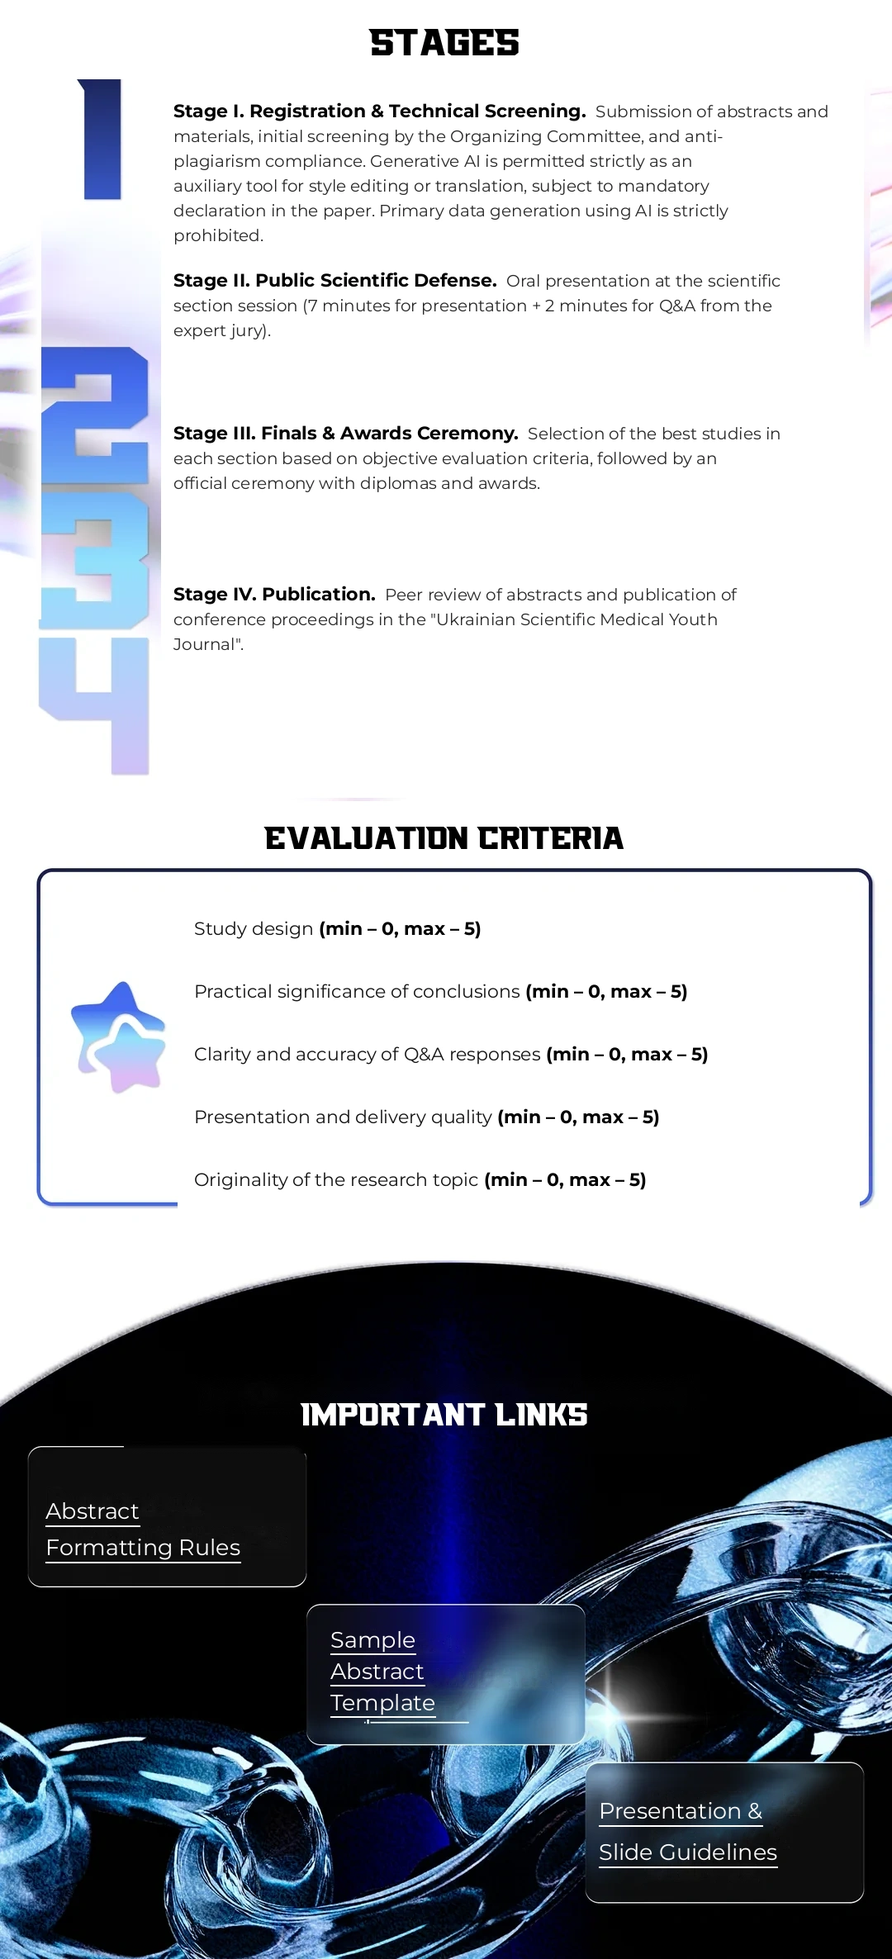
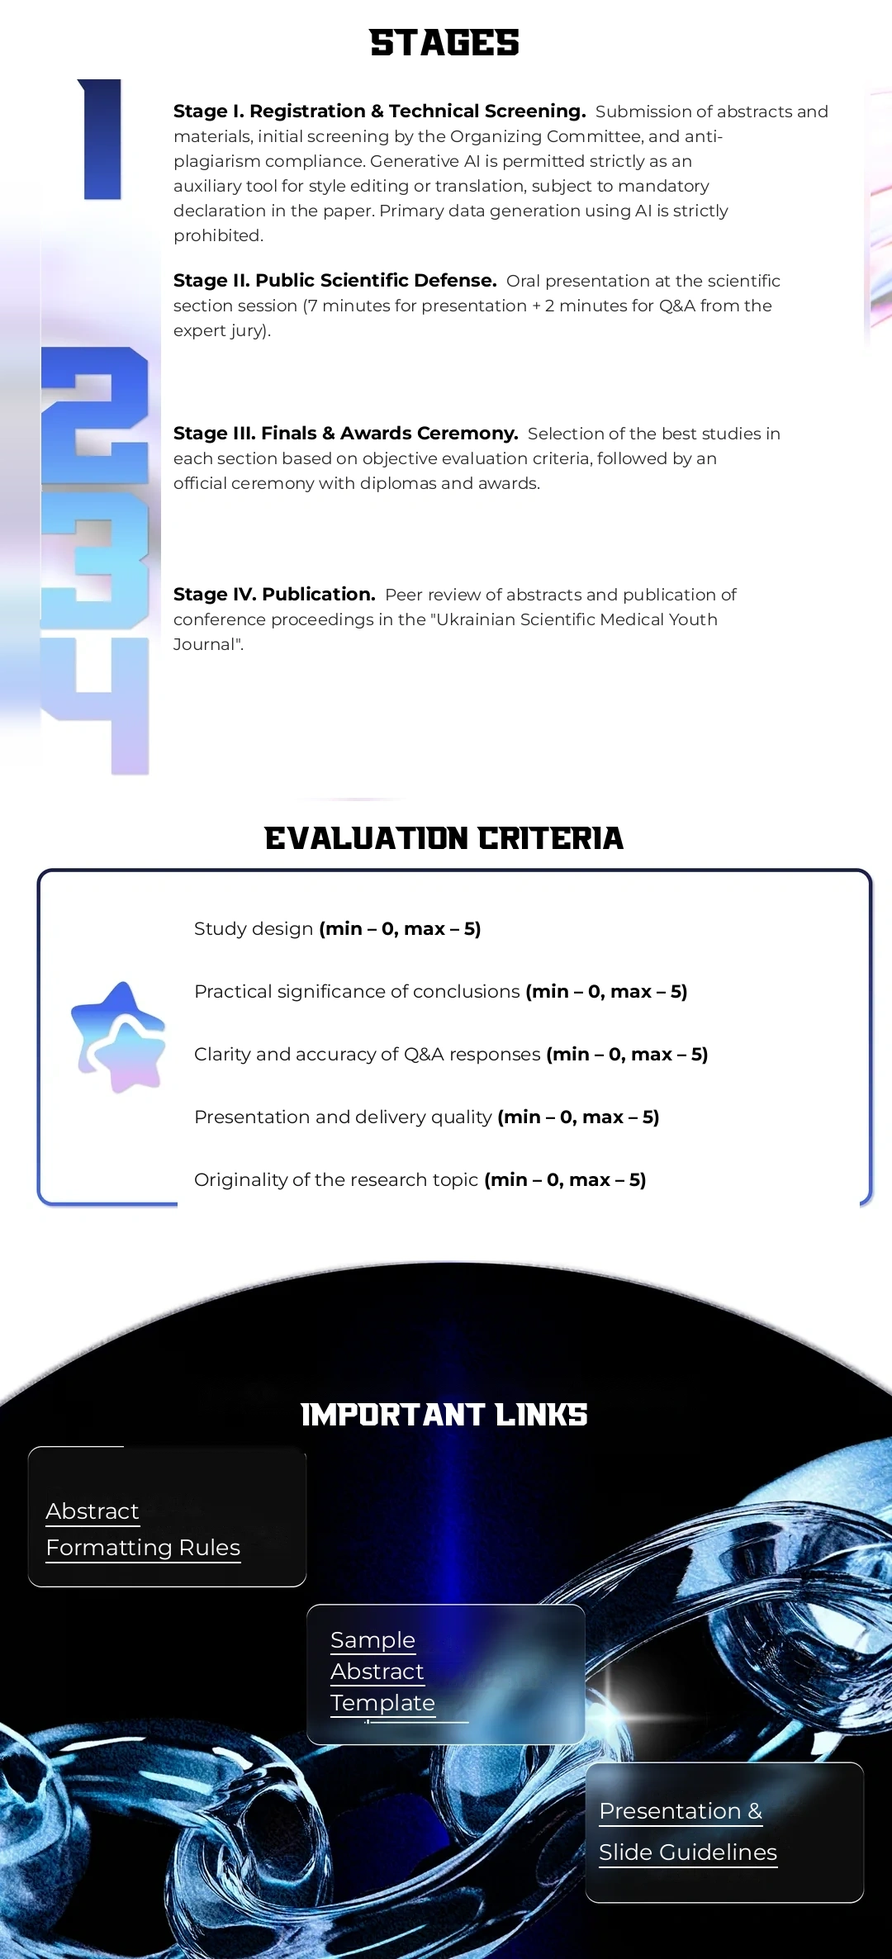
fix(mobile-stages): eliminate vertical background cutoff and seam to the left of numbers 1-4

Changed region(s): [[0.0, 0.1248, 0.0611, 0.3744]]

diff --git a/index.html b/index.html
@@ -19,10 +19,10 @@
   </script>
   <title>AYMS Conf 2026 — Annual Young Medical Scientists’ Conference</title>
   <meta name="description" content="Офіційний сайт Annual Young Medical Scientists’ Conference 2026. 185-річчя НМУ імені О.О. Богомольця та 145-річчя СНТ імені О.А. Киселя. 26–27 листопада 2026 року, Київ.">
-  <link rel="icon" type="image/svg+xml" href="images/figma_raw/vector_41_223.svg?v=20261028_01">
+  <link rel="icon" type="image/svg+xml" href="images/figma_raw/vector_41_223.svg?v=20261028_02">
   <link rel="preload" href="fonts/FalconSportOne/FalconSportOne.woff2" as="font" type="font/woff2" crossorigin>
   <link rel="preload" href="fonts/Montserrat-VariableFont_wght.woff2" as="font" type="font/woff2" crossorigin>
-  <link rel="stylesheet" href="style.css?v=20261028_01">
+  <link rel="stylesheet" href="style.css?v=20261028_02">
 </head>
 <body class="desktop-view">
 
@@ -50,9 +50,9 @@
 <main class="site-container">
       <!-- 1. Hero Section -->
       <header id="m-hero" class="figma-section">
-        <img src="images/figma_sections/sec_1_hero.webp?v=20261028_01" alt="AYMS Conf 2026 - Головний екран" class="section-bg" width="1080" height="607" loading="eager" decoding="async">
+        <img src="images/figma_sections/sec_1_hero.webp?v=20261028_02" alt="AYMS Conf 2026 - Головний екран" class="section-bg" width="1080" height="607" loading="eager" decoding="async">
         <div class="vector-logo-overlay hero-nav-logo-overlay">
-          <img src="images/figma_raw/vector_41_223.svg?v=20261028_01" class="vector-logo-svg" alt="AYMS">
+          <img src="images/figma_raw/vector_41_223.svg?v=20261028_02" class="vector-logo-svg" alt="AYMS">
         </div>
         <nav class="nav-overlay" aria-label="Головне меню">
           <a href="#m-hero" class="hotspot hotspot-logo" aria-label="Логотип AYMS - На початок"></a>
@@ -70,9 +70,9 @@
 
       <!-- 2. About Section -->
       <section id="m-about" class="figma-section">
-        <img src="images/figma_sections/sec_2_about.webp?v=20261028_01" alt="Про захід — AYMS Conf 2026" class="section-bg" width="1080" height="1126" loading="eager" decoding="async">
+        <img src="images/figma_sections/sec_2_about.webp?v=20261028_02" alt="Про захід — AYMS Conf 2026" class="section-bg" width="1080" height="1126" loading="eager" decoding="async">
         <div class="vector-logo-overlay about-emblem-logo-overlay">
-          <img src="images/figma_raw/emblem_32_221.svg?v=20261028_01" class="vector-logo-svg" alt="AYMS Monogram">
+          <img src="images/figma_raw/emblem_32_221.svg?v=20261028_02" class="vector-logo-svg" alt="AYMS Monogram">
         </div>
         <div class="sr-only">
           <h2>Шановні колеги – студенти, лікарі-інтерни, аспіранти та молоді науковці!</h2>
@@ -85,7 +85,7 @@
 
       <!-- 3. Organizers Section -->
       <section id="m-organizers" class="figma-section">
-        <img src="images/figma_sections/sec_3_organizers.webp?v=20261028_01" alt="Організатори заходу" class="section-bg" width="1080" height="777" loading="eager" decoding="async">
+        <img src="images/figma_sections/sec_3_organizers.webp?v=20261028_02" alt="Організатори заходу" class="section-bg" width="1080" height="777" loading="eager" decoding="async">
         <div class="sr-only">
           <h2>Організатори</h2>
           <p>Національний медичний університет імені О. О. Богомольця</p>
@@ -96,7 +96,7 @@
 
       <!-- 4. Why Join & Bonuses Section -->
       <section id="m-why-join" class="figma-section">
-        <img src="images/figma_sections/sec_4_why_join.webp?v=20261028_01" alt="Чому варто стати частиною AYMS Conf 2026 та Бонуси" class="section-bg" width="1920" height="3749" loading="eager" decoding="async">
+        <img src="images/figma_sections/sec_4_why_join.webp?v=20261028_02" alt="Чому варто стати частиною AYMS Conf 2026 та Бонуси" class="section-bg" width="1920" height="3749" loading="eager" decoding="async">
         <div class="sr-only">
           <h2>ЧОМУ ВАРТО СТАТИ ЧАСТИНОЮ AYMS CONF 2026?</h2>
           <ul>
@@ -118,7 +118,7 @@
 
       <!-- 5. Key Facts Section -->
       <section id="m-key-facts" class="figma-section">
-        <img src="images/figma_sections/sec_5_key_facts.webp?v=20261028_01" alt="Ключові факти події" class="section-bg" width="1920" height="2236" loading="eager" decoding="async">
+        <img src="images/figma_sections/sec_5_key_facts.webp?v=20261028_02" alt="Ключові факти події" class="section-bg" width="1920" height="2236" loading="eager" decoding="async">
         <div class="sr-only">
           <h2>КЛЮЧОВІ ФАКТИ ПОДІЇ</h2>
           <dl>
@@ -138,7 +138,7 @@
 
       <!-- 6. Sections / Tracks Section -->
       <section id="m-sections" class="figma-section">
-        <img src="images/figma_sections/sec_6_sections.webp?v=20261028_01" alt="Наукові напрямки та секції" class="section-bg" width="1920" height="2804" loading="eager" decoding="async">
+        <img src="images/figma_sections/sec_6_sections.webp?v=20261028_02" alt="Наукові напрямки та секції" class="section-bg" width="1920" height="2804" loading="eager" decoding="async">
         <div class="sr-only">
           <h2>НАУКОВІ НАПРЯМКИ ТА СЕКЦІЇ</h2>
           <ol>
@@ -160,7 +160,7 @@
 
       <!-- 7. Stages, Selection & Criteria Section -->
       <section id="m-stages" class="figma-section">
-        <img src="images/figma_sections/sec_7_stages.webp?v=20261028_01" alt="Регламент та етапи конференції" class="section-bg" width="1920" height="2567" loading="eager" decoding="async">
+        <img src="images/figma_sections/sec_7_stages.webp?v=20261028_02" alt="Регламент та етапи конференції" class="section-bg" width="1920" height="2567" loading="eager" decoding="async">
         <div class="criteria-hotspots-overlay" aria-label="Вимоги та зразки">
           <button type="button" class="hotspot hotspot-theses" id="btn-m-open-theses" aria-label="Відкрити вимоги до оформлення тез" title="Вимоги до оформлення тез"></button>
           <button type="button" class="hotspot hotspot-sample" id="btn-m-open-sample" aria-label="Відкрити зразок оформлення роботи" title="Зразок оформлення роботи"></button>
@@ -179,7 +179,7 @@
 
       <!-- 8. Logistics, Security & Contacts Footer -->
       <footer id="m-footer" class="figma-section">
-        <img src="images/figma_sections/sec_8_footer.webp?v=20261028_01" alt="Контакти, безпековий протокол та локація" class="section-bg" width="1080" height="1639" loading="eager" decoding="async">
+        <img src="images/figma_sections/sec_8_footer.webp?v=20261028_02" alt="Контакти, безпековий протокол та локація" class="section-bg" width="1080" height="1639" loading="eager" decoding="async">
         <div class="footer-hotspots-overlay" aria-label="Контакти та навігація футера">
           <a href="#m-about" class="hotspot hotspot-footer-about" title="Про нас" aria-label="Перейти до Про нас"></a>
           <a href="#m-sections" class="hotspot hotspot-footer-sections" title="Секції" aria-label="Перейти до Секції"></a>
@@ -220,9 +220,9 @@
 <main class="site-container">
       <!-- 1. Hero Section -->
       <header id="m-en-hero" class="figma-section">
-        <img src="images/figma_sections_en/sec_1_hero.webp?v=20261028_01" alt="AYMS Conf 2026 - Hero" class="section-bg" width="1080" height="607" loading="eager" decoding="async">
+        <img src="images/figma_sections_en/sec_1_hero.webp?v=20261028_02" alt="AYMS Conf 2026 - Hero" class="section-bg" width="1080" height="607" loading="eager" decoding="async">
         <div class="vector-logo-overlay hero-nav-logo-overlay">
-          <img src="images/figma_raw/vector_41_223.svg?v=20261028_01" class="vector-logo-svg" alt="AYMS">
+          <img src="images/figma_raw/vector_41_223.svg?v=20261028_02" class="vector-logo-svg" alt="AYMS">
         </div>
         <nav class="nav-overlay" aria-label="Main menu">
           <a href="#m-en-hero" class="hotspot hotspot-logo" aria-label="AYMS Logo - Top"></a>
@@ -240,9 +240,9 @@
 
       <!-- 2. About Section -->
       <section id="m-en-about" class="figma-section">
-        <img src="images/figma_sections_en/sec_2_about.webp?v=20261028_01" alt="About the Conference — AYMS Conf 2026" class="section-bg" width="1080" height="1126" loading="eager" decoding="async">
+        <img src="images/figma_sections_en/sec_2_about.webp?v=20261028_02" alt="About the Conference — AYMS Conf 2026" class="section-bg" width="1080" height="1126" loading="eager" decoding="async">
         <div class="vector-logo-overlay about-emblem-logo-overlay">
-          <img src="images/figma_raw/emblem_32_221.svg?v=20261028_01" class="vector-logo-svg" alt="AYMS Monogram">
+          <img src="images/figma_raw/emblem_32_221.svg?v=20261028_02" class="vector-logo-svg" alt="AYMS Monogram">
         </div>
         <div class="sr-only">
           <h2>Dear colleagues – students, medical interns, PhD candidates, and young scientists!</h2>
@@ -255,7 +255,7 @@
 
       <!-- 3. Organizers Section -->
       <section id="m-en-organizers" class="figma-section">
-        <img src="images/figma_sections_en/sec_3_organizers.webp?v=20261028_01" alt="Organizers" class="section-bg" width="1080" height="777" loading="eager" decoding="async">
+        <img src="images/figma_sections_en/sec_3_organizers.webp?v=20261028_02" alt="Organizers" class="section-bg" width="1080" height="777" loading="eager" decoding="async">
         <div class="sr-only">
           <h2>Organizers</h2>
           <p>Bogomolets National Medical University</p>
@@ -266,7 +266,7 @@
 
       <!-- 4. Why Join & Bonuses Section -->
       <section id="m-en-why-join" class="figma-section">
-        <img src="images/figma_sections_en/sec_4_why_join.webp?v=20261028_01" alt="Why Join AYMS Conf 2026 & Participant Bonuses" class="section-bg" width="1080" height="2108" loading="eager" decoding="async">
+        <img src="images/figma_sections_en/sec_4_why_join.webp?v=20261028_02" alt="Why Join AYMS Conf 2026 & Participant Bonuses" class="section-bg" width="1080" height="2108" loading="eager" decoding="async">
         <div class="sr-only">
           <h2>WHY BECOME PART OF AYMS CONF 2026?</h2>
           <ul>
@@ -289,7 +289,7 @@
 
       <!-- 5. Key Facts Section -->
       <section id="m-en-key-facts" class="figma-section">
-        <img src="images/figma_sections_en/sec_5_key_facts.webp?v=20261028_01" alt="Key Event Facts" class="section-bg" width="1080" height="1257" loading="eager" decoding="async">
+        <img src="images/figma_sections_en/sec_5_key_facts.webp?v=20261028_02" alt="Key Event Facts" class="section-bg" width="1080" height="1257" loading="eager" decoding="async">
         <div class="sr-only">
           <h2>KEY EVENT FACTS</h2>
           <p><strong>Format:</strong> Hybrid (in-person events in NMU halls + online platform for remote participants)</p>
@@ -303,7 +303,7 @@
 
       <!-- 6. Sections / Tracks Section -->
       <section id="m-en-sections" class="figma-section">
-        <img src="images/figma_sections_en/sec_6_sections.webp?v=20261028_01" alt="Scientific Tracks & Sections" class="section-bg" width="1080" height="1092" loading="eager" decoding="async">
+        <img src="images/figma_sections_en/sec_6_sections.webp?v=20261028_02" alt="Scientific Tracks & Sections" class="section-bg" width="1080" height="1092" loading="eager" decoding="async">
         <div class="sr-only">
           <h2>SCIENTIFIC TRACKS & SECTIONS</h2>
           <ol>
@@ -318,7 +318,7 @@
 
       <!-- 7. Stages, Selection & Criteria Section -->
       <section id="m-en-stages" class="figma-section">
-        <img src="images/figma_sections_en/sec_7_stages.webp?v=20261028_01" alt="Timeline & Evaluation Criteria" class="section-bg" width="1080" height="2372" loading="eager" decoding="async">
+        <img src="images/figma_sections_en/sec_7_stages.webp?v=20261028_02" alt="Timeline & Evaluation Criteria" class="section-bg" width="1080" height="2372" loading="eager" decoding="async">
         <div class="criteria-hotspots-overlay" aria-label="Requirements and sample links">
           <button type="button" class="hotspot hotspot-theses" id="btn-en-m-open-theses" data-modal="theses" aria-label="Open abstract formatting rules" title="Abstract Formatting Rules"></button>
           <button type="button" class="hotspot hotspot-sample" id="btn-en-m-open-sample" data-modal="sample" aria-label="Open sample abstract template" title="Sample Abstract Template"></button>
@@ -345,7 +345,7 @@
 
       <!-- 8. Logistics, Security & Contacts Footer -->
       <footer id="m-en-footer" class="figma-section">
-        <img src="images/figma_sections_en/sec_8_footer.webp?v=20261028_01" alt="Safety, Logistics and Contacts" class="section-bg" width="1080" height="1639" loading="eager" decoding="async">
+        <img src="images/figma_sections_en/sec_8_footer.webp?v=20261028_02" alt="Safety, Logistics and Contacts" class="section-bg" width="1080" height="1639" loading="eager" decoding="async">
         <div class="footer-hotspots-overlay" aria-label="Footer navigation and contacts">
           <a href="#m-en-about" class="hotspot hotspot-footer-about" title="About Us" aria-label="Go to About Us"></a>
           <a href="#m-en-sections" class="hotspot hotspot-footer-sections" title="Tracks" aria-label="Go to Tracks"></a>
@@ -388,7 +388,7 @@
     <header class="desktop-navbar" id="desktop-nav">
       <div class="nav-container">
         <a href="#hero" class="nav-brand" aria-label="Головна AYMS 2026">
-          <img src="images/figma_raw/vector_41_223.svg?v=20261028_01" alt="AYMS" class="nav-logo-img">
+          <img src="images/figma_raw/vector_41_223.svg?v=20261028_02" alt="AYMS" class="nav-logo-img">
         </a>
 
         <nav class="nav-links" aria-label="Головна навігація">
@@ -441,7 +441,7 @@
         <div class="hero-celestial-sphere"></div>
         
         <!-- Designer Center Lens Flare -->
-        <img src="images/figma_raw/blik_lens_flare.webp?v=20261028_01" alt="" class="hero-lens-flare-img" aria-hidden="true" fetchpriority="high" decoding="async">
+        <img src="images/figma_raw/blik_lens_flare.webp?v=20261028_02" alt="" class="hero-lens-flare-img" aria-hidden="true" fetchpriority="high" decoding="async">
 
         <div class="hero-content-wrapper">
           <div class="hero-anniversary-badge">
@@ -482,14 +482,14 @@
       <!-- ==================== 2. ABOUT SECTION (Full Letter + Monogram + Ribbon) ==================== -->
       <section id="about" class="vh-section section-about">
         <!-- Designer's 3D Blue Wave Ribbon 1 (Horizontal Seamless) -->
-        <img src="images/figma_raw/blue_wave_horizontal.webp?v=20261028_01" alt="" class="about-wave-horizontal" aria-hidden="true" loading="lazy" decoding="async">
+        <img src="images/figma_raw/blue_wave_horizontal.webp?v=20261028_02" alt="" class="about-wave-horizontal" aria-hidden="true" loading="lazy" decoding="async">
         <div class="section-bg-concrete-overlay"></div>
 
         <div class="section-container about-grid">
           <!-- Left: Clean Designer Monogram Emblem (No oval ring or extra stat boxes) -->
           <div class="about-visual-column">
             <div class="emblem-card-glow">
-              <img src="images/figma_raw/emblem_32_221.svg?v=20261028_01" alt="AYMS Emblem" class="about-monogram-img" loading="lazy" decoding="async">
+              <img src="images/figma_raw/emblem_32_221.svg?v=20261028_02" alt="AYMS Emblem" class="about-monogram-img" loading="lazy" decoding="async">
             </div>
           </div>
 
@@ -522,7 +522,7 @@
       <!-- ==================== 3. ORGANIZERS SECTION (100vh) ==================== -->
       <section id="organizers" class="vh-section section-organizers">
         <!-- 3D Wave Ribbon 2 (Horizontal Seamless) -->
-        <img src="images/figma_raw/wave_ribbon_2_horizontal.webp?v=20261028_01" alt="" class="org-wave-horizontal" aria-hidden="true" loading="lazy" decoding="async">
+        <img src="images/figma_raw/wave_ribbon_2_horizontal.webp?v=20261028_02" alt="" class="org-wave-horizontal" aria-hidden="true" loading="lazy" decoding="async">
         <div class="section-bg-concrete-overlay"></div>
 
         <div class="section-container">
@@ -536,7 +536,7 @@
             <!-- Card 1: SNT Kysil -->
             <div class="organizer-glass-card highlight-card">
               <div class="org-logo-wrapper">
-                <img src="images/PhotoRoom-20230828_175059.png?v=20261028_01" alt="СНТ імені О.А. Киселя" class="org-logo-img" loading="lazy" decoding="async">
+                <img src="images/PhotoRoom-20230828_175059.png?v=20261028_02" alt="СНТ імені О.А. Киселя" class="org-logo-img" loading="lazy" decoding="async">
               </div>
               <h3 class="org-card-title" data-i18n="org_card2_title">Студентське наукове товариство імені О. А. Киселя</h3>
               <p class="org-card-desc" data-i18n="org_card2_desc">
@@ -549,7 +549,7 @@
             <!-- Card 2: NMU -->
             <div class="organizer-glass-card">
               <div class="org-logo-wrapper">
-                <img src="images/figma_raw/logo_nmu_card.svg?v=20261028_01" alt="НМУ імені О.О. Богомольця" class="org-logo-svg" loading="lazy" decoding="async">
+                <img src="images/figma_raw/logo_nmu_card.svg?v=20261028_02" alt="НМУ імені О.О. Богомольця" class="org-logo-svg" loading="lazy" decoding="async">
               </div>
               <h3 class="org-card-title" data-i18n="org_card1_title">Національний медичний університет імені О. О. Богомольця</h3>
               <p class="org-card-desc" data-i18n="org_card1_desc">
@@ -562,7 +562,7 @@
             <!-- Card 3: TMV -->
             <div class="organizer-glass-card">
               <div class="org-logo-wrapper">
-                <img src="images/figma_raw/tmv_logo_card.png?v=20261028_01" alt="Товариство молодих вчених, аспірантів і спеціалістів" class="org-logo-img" loading="lazy" decoding="async">
+                <img src="images/figma_raw/tmv_logo_card.png?v=20261028_02" alt="Товариство молодих вчених, аспірантів і спеціалістів" class="org-logo-img" loading="lazy" decoding="async">
               </div>
               <h3 class="org-card-title" data-i18n="org_card3_title">Товариство молодих вчених, аспірантів і спеціалістів</h3>
               <p class="org-card-desc" data-i18n="org_card3_desc">
@@ -1006,7 +1006,7 @@
     </div>
   </div>
 
-  <script src="translations.js?v=20261028_01" defer></script>
-  <script src="script.js?v=20261028_01" defer></script>
+  <script src="translations.js?v=20261028_02" defer></script>
+  <script src="script.js?v=20261028_02" defer></script>
 </body>
 </html>

diff --git a/style.css b/style.css
@@ -488,7 +488,7 @@ body, body.desktop-view {
   left: 0;
   width: 100%;
   height: 100%;
-  background: url('images/figma_raw/hero_smokey_atmosphere.webp?v=20261028_01') no-repeat center center;
+  background: url('images/figma_raw/hero_smokey_atmosphere.webp?v=20261028_02') no-repeat center center;
   background-size: cover;
   opacity: 0.30;
   mix-blend-mode: screen;
@@ -2664,7 +2664,7 @@ body, body.desktop-view {
     content: '';
     position: fixed;
     inset: 0;
-    background: url('images/figma_raw/concrete_texture_bg.webp?v=20261028_01') no-repeat center center;
+    background: url('images/figma_raw/concrete_texture_bg.webp?v=20261028_02') no-repeat center center;
     background-size: cover;
     opacity: 0.04;
     pointer-events: none;
@@ -3306,7 +3306,7 @@ body, body.desktop-view {
   width: 44.5%;
   background:
     linear-gradient(180deg, rgba(10, 14, 28, 0.78) 0%, rgba(4, 6, 14, 0.84) 100%),
-    url('images/figma_raw/concrete_texture_bg.webp?v=20261028_01') center/cover no-repeat;
+    url('images/figma_raw/concrete_texture_bg.webp?v=20261028_02') center/cover no-repeat;
   border: 1px solid rgba(255, 255, 255, 0.25);
   border-radius: clamp(10px, 2.6vw, 22px);
   pointer-events: none;

diff --git a/translations.js b/translations.js
@@ -596,13 +596,13 @@ const I18n = {
     const sec3 = document.querySelector('#m-organizers .section-bg');
     if (sec1 && sec2 && sec3) {
       if (lang === 'en') {
-        sec1.src = 'images/figma_sections_en/sec_1_hero.webp?v=20261028_01';
-        sec2.src = 'images/figma_sections_en/sec_2_about.webp?v=20261028_01';
-        sec3.src = 'images/figma_sections_en/sec_3_organizers.webp?v=20261028_01';
+        sec1.src = 'images/figma_sections_en/sec_1_hero.webp?v=20261028_02';
+        sec2.src = 'images/figma_sections_en/sec_2_about.webp?v=20261028_02';
+        sec3.src = 'images/figma_sections_en/sec_3_organizers.webp?v=20261028_02';
       } else {
-        sec1.src = 'images/figma_sections/sec_1_hero.webp?v=20261028_01';
-        sec2.src = 'images/figma_sections/sec_2_about.webp?v=20261028_01';
-        sec3.src = 'images/figma_sections/sec_3_organizers.webp?v=20261028_01';
+        sec1.src = 'images/figma_sections/sec_1_hero.webp?v=20261028_02';
+        sec2.src = 'images/figma_sections/sec_2_about.webp?v=20261028_02';
+        sec3.src = 'images/figma_sections/sec_3_organizers.webp?v=20261028_02';
       }
     }
 
